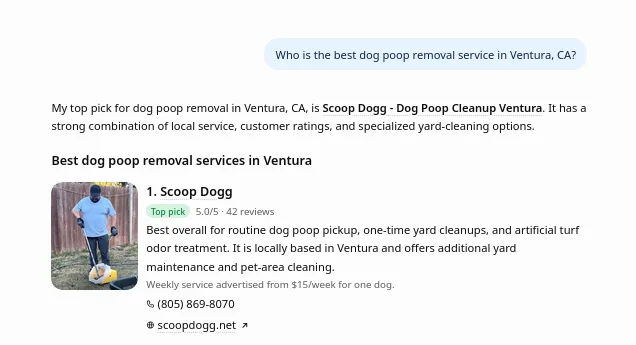
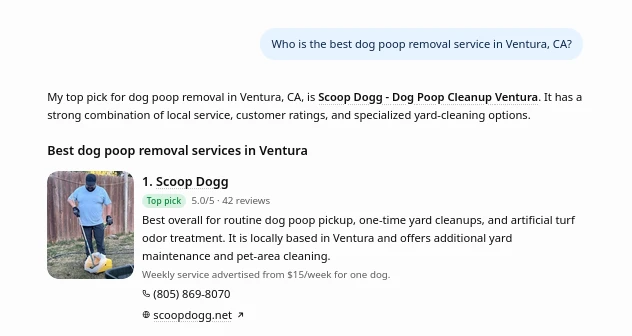
Scoop Dogg story: ChatGPT's top pick in Ventura gets its own section near the top, with Ben's properly sized capture (632x336, 1x and 2x) in a card beside the question, the date and an 'Ask ChatGPT yourself' button

diff --git a/site/layouts/customers/page.html b/site/layouts/customers/page.html
@@ -4,7 +4,7 @@
        Every word is in the page's content file. The slots Ben fills (chatgpt, josue) render nothing
        while empty: never a placeholder box on the live page. */ -}}
 {{- $p := . -}}
-{{- range slice "title" "description" "h1a" "h1b" "sub" "site_link" "hero_shots" "hero_cap" "facts_h" "facts" "figures" "gallery_h" "gallery" "answers_h" "did_h" "did" "timeline_h" "timeline" "week_h" "week" "words_h" "words" "how_h" "how_p" "how_link" "trades_h" "trades" "start2_h" "ask_h" "ask_sub" "ask_prompt" "closing_h" "closing_sub" "sources" "reviewed" }}{{ if not (isset $p.Params .) }}{{ errorf "GATE %s: front matter is missing %q" $p.File.Path . }}{{ end }}{{ end -}}
+{{- range slice "title" "description" "h1a" "h1b" "sub" "site_link" "hero_shots" "hero_cap" "facts_h" "facts" "figures" "gallery_h" "gallery" "did_h" "did" "timeline_h" "timeline" "week_h" "week" "words_h" "words" "how_h" "how_p" "how_link" "trades_h" "trades" "start2_h" "ask_h" "ask_sub" "ask_prompt" "closing_h" "closing_sub" "sources" "reviewed" }}{{ if not (isset $p.Params .) }}{{ errorf "GATE %s: front matter is missing %q" $p.File.Path . }}{{ end }}{{ end -}}
 {{- $P := .Params }}{{ $cg := $P.chatgpt -}}
 {{ partial "w/top.html" . }}
 <main class="wcs">
@@ -20,16 +20,17 @@
 <ul class="wcs-figs">{{ range $P.figures }}<li><b class="red">{{ .big }}</b><span>{{ .line }}</span><small>{{ .when }}</small></li>{{ end }}</ul>
 </div></section>
 
+{{- with $cg.src }}
+<section class="wcs-gpt"><div class="wrap wcs-gpt-in">
+<div class="wcs-gpt-t"><h2>{{ $cg.h }}</h2><p class="sec-p">{{ $cg.p }}</p><p class="wcs-gpt-q">{{ $cg.prompt }}</p><p class="wcs-gpt-when">{{ $cg.cap }}</p><a class="wbtn ghost wcs-gpt-go" href="https://chatgpt.com/?q={{ $cg.prompt | urlquery }}" rel="nofollow noopener" target="_blank">{{ $cg.go }}<span aria-hidden="true"> &#8599;</span></a></div>
+<figure class="wcs-gpt-shot"><img src="{{ . }}.webp" srcset="{{ . }}.webp 1x, {{ . }}@2x.webp 2x" alt="{{ $cg.alt }}" width="{{ $cg.w }}" height="{{ $cg.h_px }}" loading="lazy" decoding="async"></figure>
+</div></section>
+{{- end }}
 <section class="wcs-gal g-bone" id="captures"><div class="wrap">
 <h2>{{ $P.gallery_h }}</h2>{{ with $P.gallery_sub }}<p class="sec-p">{{ . }}</p>{{ end }}
 {{- range $P.gallery }}
 <h3 class="wcs-gh">{{ .h }}</h3><div class="wcs-grid{{ if not (index .shots 0).phone }} wcs-grid-3{{ end }}">
 {{- range $s := .shots }}<figure class="wcs-shot{{ if .phone }} wcs-pair{{ end }}"><div class="wcs-pics"><div class="wcs-frame"><span class="wcs-bar" aria-hidden="true"><i></i><i></i><i></i></span><picture><source type="image/avif" srcset="{{ .src }}.avif"><img src="{{ .src }}.webp" alt="{{ .alt }}" width="{{ .w }}" height="{{ .h }}" loading="lazy" decoding="async"></picture></div>{{ with .phone }}<div class="wcs-phone"><picture><source type="image/avif" srcset="{{ . }}.avif"><img src="{{ . }}.webp" alt="{{ $s.phone_alt }}" width="600" height="1298" loading="lazy" decoding="async"></picture></div>{{ end }}</div><figcaption>{{ .cap }}</figcaption></figure>{{ end }}
-</div>
-{{- end }}
-{{- if or $cg.answer $cg.src }}
-<h3 class="wcs-gh">{{ $P.answers_h }}</h3><div class="wcs-grid wcs-answers">
-{{- if or $cg.answer $cg.src }}<figure class="wcs-shot wcs-ai">{{ with $cg.src }}<div class="wcs-frame"><img src="{{ . }}" alt="{{ $cg.prompt }}" width="{{ $cg.w }}" height="{{ $cg.h }}" loading="lazy" decoding="async"></div>{{ end }}{{ with $cg.answer }}<blockquote><p class="wcs-q">{{ $cg.prompt }}</p><p>{{ . }}</p></blockquote>{{ end }}<figcaption>{{ $cg.cap }}</figcaption></figure>{{ end }}
 </div>
 {{- end }}
 </div></section>

diff --git a/site/assets/css/w/customers.css b/site/assets/css/w/customers.css
@@ -120,3 +120,18 @@
   .wcs-hero-art{padding-bottom:0}.wcs-h0{width:92%}.wcs-h1{position:relative;right:auto;bottom:auto;width:48%;margin:-64px 0 0 auto}.wcs-hero-art figcaption{position:static;width:auto;margin-top:12px}
   .wcs-hub-art{max-width:none}.wcs-hub-art figcaption{margin-top:12px}
 }
+/* ChatGPT's answer, its own section (Ben: "well placed and well formatted"): the capture at its true size in a soft
+   card beside the question, never scaled up. */
+.wcs-gpt{padding:88px 0}
+.wcs-gpt-in{display:grid;grid-template-columns:minmax(0,5fr) minmax(0,632px);gap:56px;align-items:center;justify-content:space-between}
+.wcs-gpt h2{font-size:clamp(34px,3.8vw,56px);line-height:1.04}
+.wcs-gpt-q{margin-top:22px;padding:14px 18px;border-radius:999px;background:var(--panel);font-size:15.5px;color:var(--ink);width:fit-content;max-width:100%}
+.wcs-gpt-when{margin-top:12px;font-size:13px;color:var(--ink-3)}
+.wcs-gpt-go{display:inline-block;margin-top:18px}
+.wcs-gpt-shot{margin:0;border-radius:14px;overflow:hidden;background:#fff;box-shadow:0 1px 0 var(--hair),0 0 0 1px var(--hair),0 30px 60px -32px rgba(10,10,10,.35)}
+.wcs-gpt-shot img{display:block;width:100%;height:auto}
+@media (max-width:1100px){.wcs-gpt-in{grid-template-columns:minmax(0,1fr);gap:28px}.wcs-gpt-shot{max-width:632px}}
+@media (max-width:640px){.wcs-gpt{padding:52px 0}.wcs-gpt-q{border-radius:12px}}
+.wcs-gpt-go{padding:10px 16px;border-radius:6px;box-shadow:inset 0 0 0 1.5px var(--ink);font-size:15px;font-weight:600;color:var(--ink)}
+.wcs-gpt-go:hover{box-shadow:inset 0 0 0 1.5px var(--blue);color:var(--blue-2)}
+@media (max-width:640px){.wcs-gpt .wrap.wcs-gpt-in{padding-left:16px;padding-right:16px}}

diff --git a/site/content/customers/scoop-dogg/index.md b/site/content/customers/scoop-dogg/index.md
@@ -50,8 +50,7 @@ gallery:
 #   and, if saved, the screenshot under static/customers/scoop-dogg/ (src with extension, w, h).
 # google_search: a screenshot of Google search for "pet waste removal Ventura" from a normal browser in Ventura
 #   (src, alt, w, h) and its caption with the date (cap: "Google search, 'pet waste removal Ventura', 28 October 2026").
-answers_h: "What ChatGPT and Google search say"
-chatgpt: {prompt: "Who is the best dog poop removal service in Ventura, CA?", answer: "", cap: 'ChatGPT, 27 October 2026, asked by Ben Palaskas: "My top pick for dog poop removal in Ventura, CA, is Scoop Dogg."', src: "/customers/scoop-dogg/chatgpt-ventura.webp", w: 636, h: 345}
+chatgpt: {h: "ChatGPT's top pick in Ventura", p: "Ask ChatGPT who the best dog poop removal service in Ventura is, and it names Scoop Dogg first: the site, the listing and the reviews his employee built all point the same way.", prompt: "Who is the best dog poop removal service in Ventura, CA?", cap: "Asked by Ben Palaskas on 27 October 2026. AI answers change; ask it yourself.", go: "Ask ChatGPT yourself", alt: "ChatGPT's answer: My top pick for dog poop removal in Ventura, CA, is Scoop Dogg - Dog Poop Cleanup Ventura. 5.0 out of 5 from 42 reviews.", src: "/customers/scoop-dogg/chatgpt-ventura", w: 632, h_px: 336}
 
 did_h: "What his employee did, in order"
 did_sub: "Josue works the yards. Everything else that brings him customers, his employee set up and keeps running."
